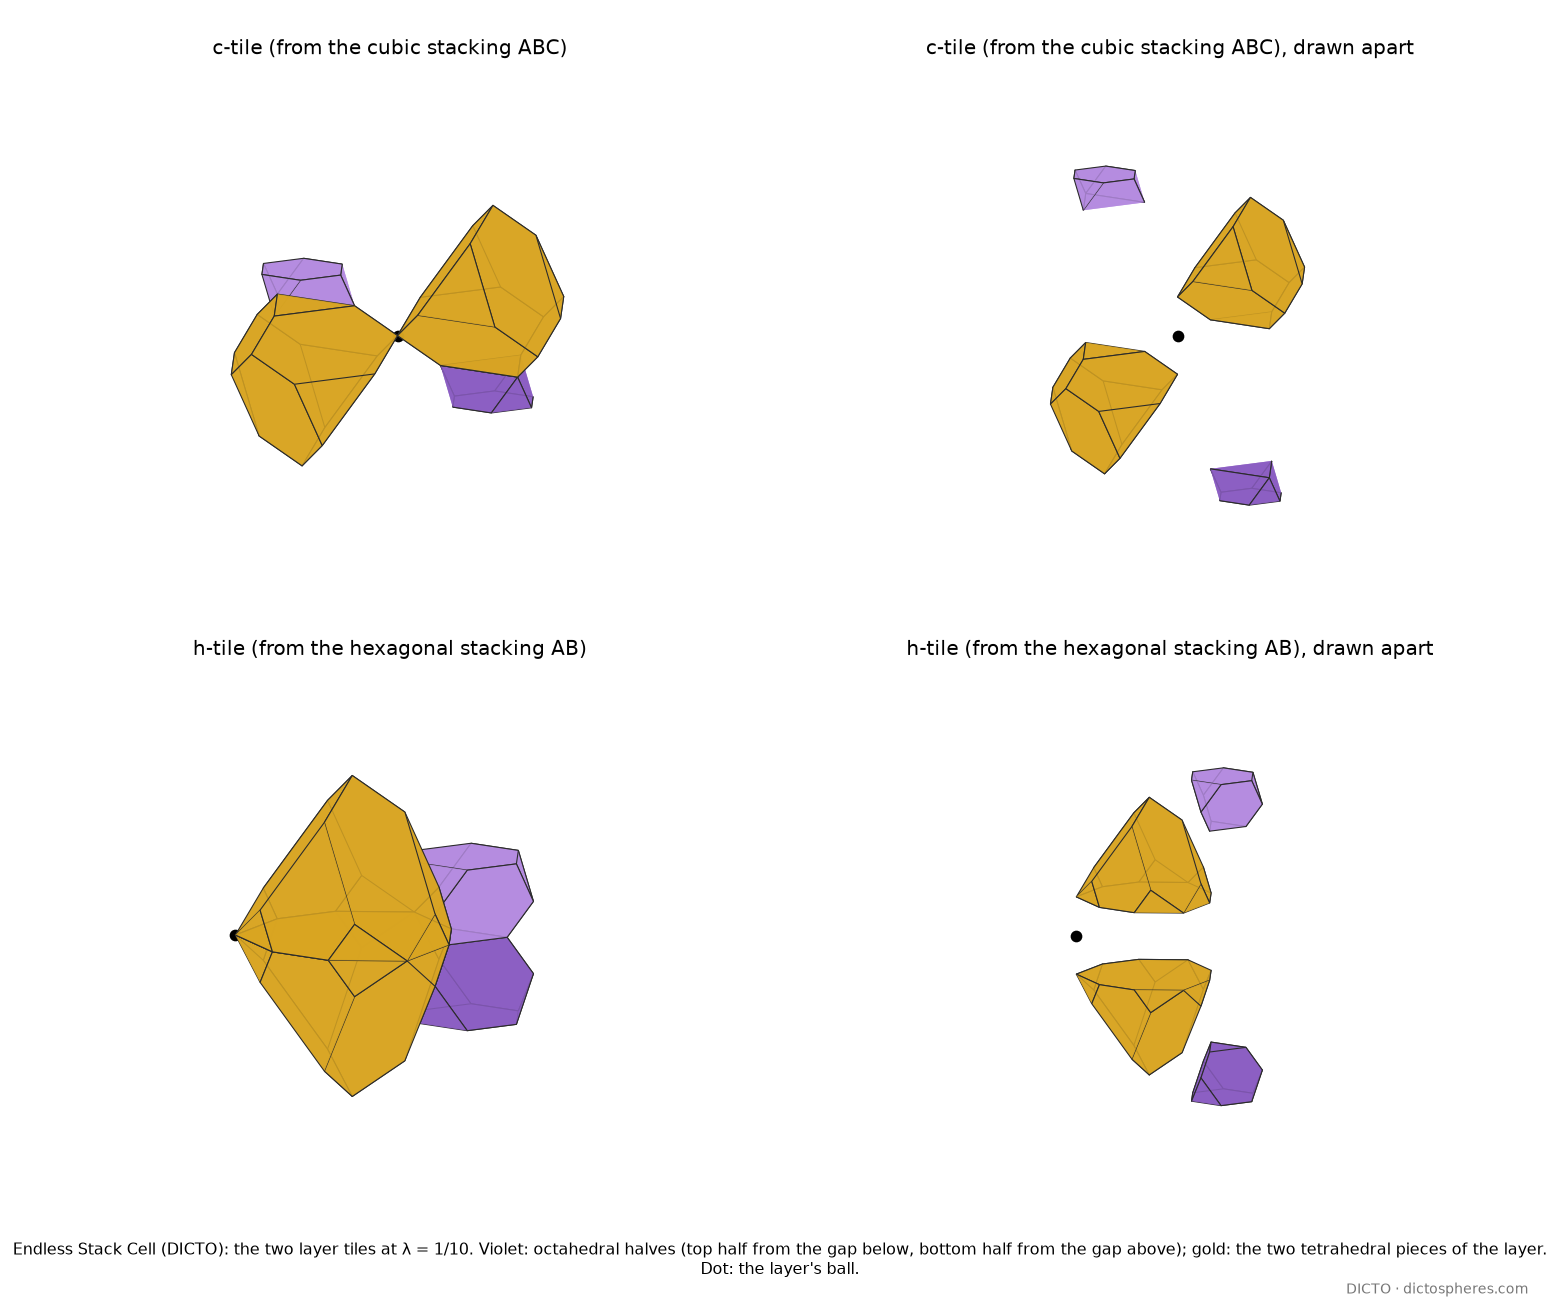
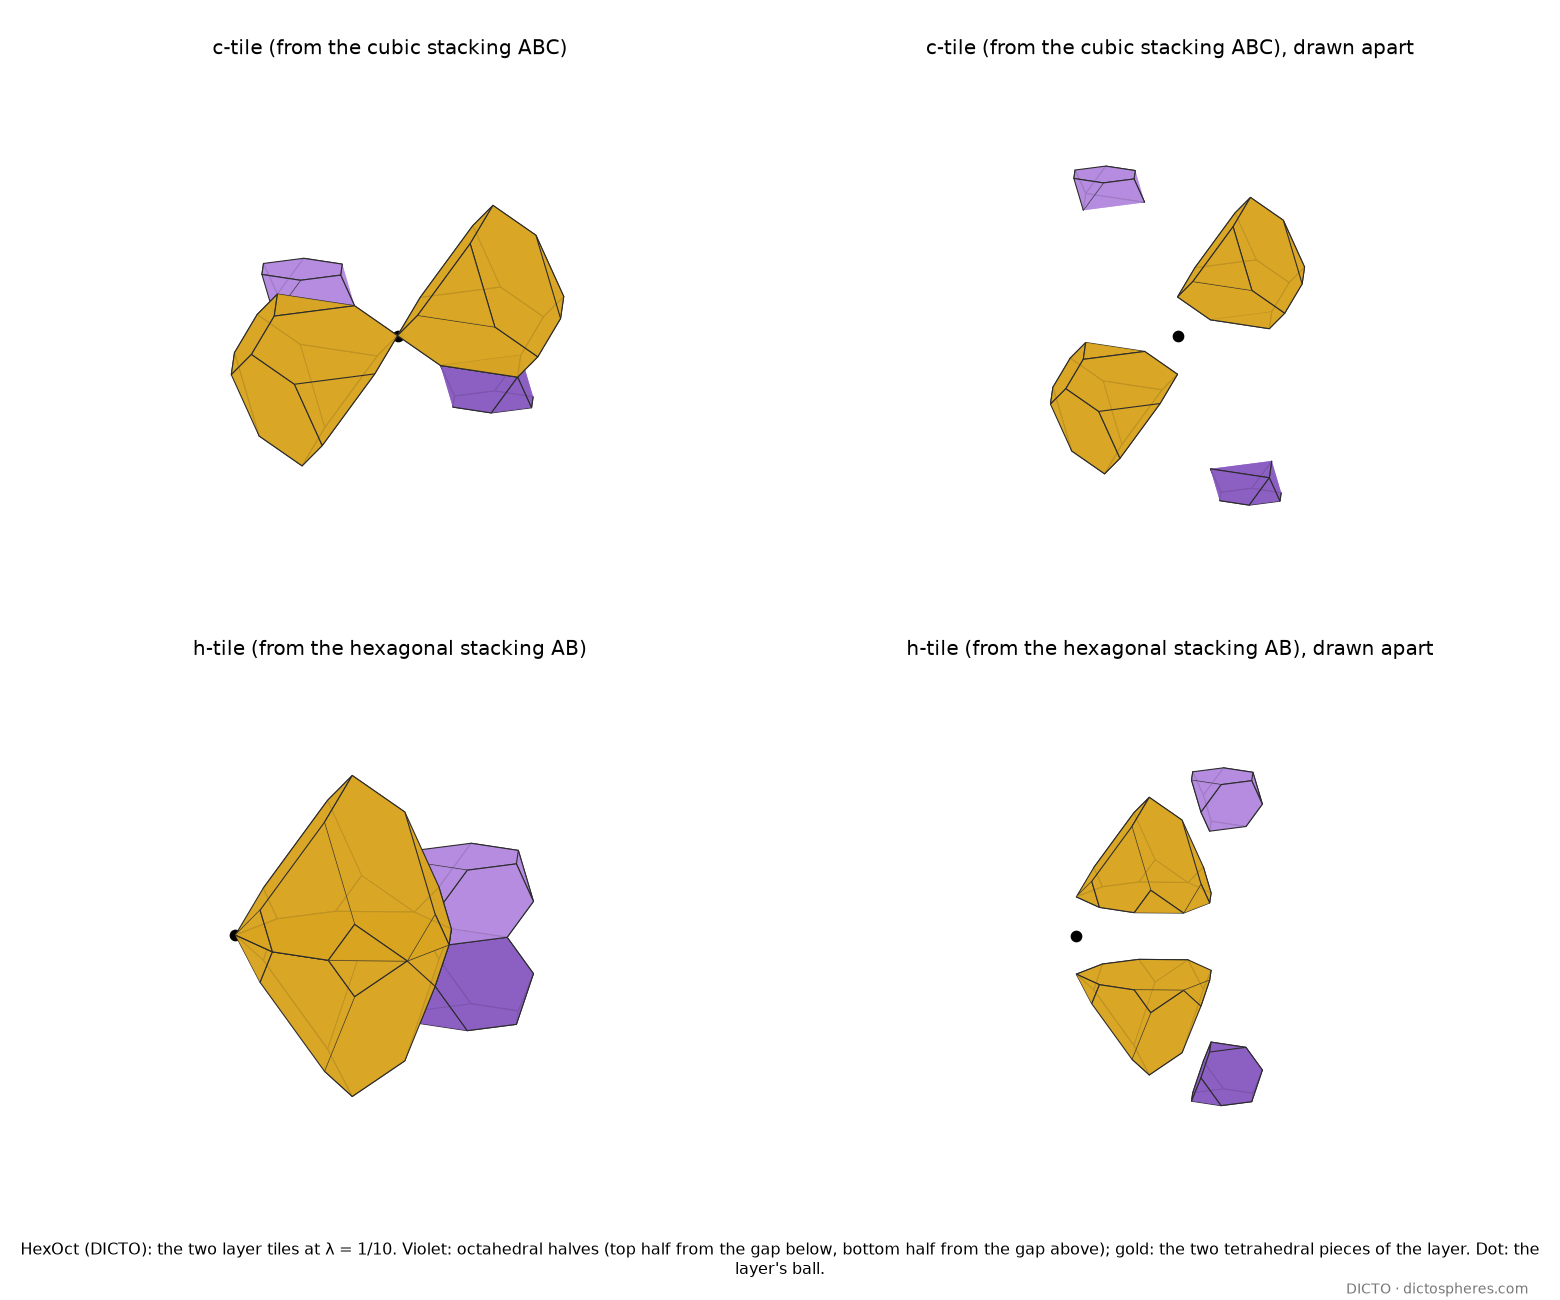
#75 figures relabelled HexOct (DICTO's name; was Endless Stack Cell)

Changed region(s): [[0.0, 0.9538, 0.9846, 0.9846]]

diff --git a/studies/2026-10-29-endless-stack-cell/scripts/render_tiles.py b/studies/2026-10-29-endless-stack-cell/scripts/render_tiles.py
@@ -1,4 +1,4 @@
-# Picture of the two layer tiles (Endless Stack Cell, DICTO's idea 2026-10-29): the c-tile (from ABC) and the h-tile (from AB)
+# Picture of the two layer tiles (HexOct, DICTO's name 2026-10-29; was the placeholder Endless Stack Cell): the c-tile (from ABC) and the h-tile (from AB)
 # at one weight; left whole, right drawn apart along z. Octahedral halves violet, tetrahedral pieces gold; the layer's ball as a dot.
 import sys, numpy as np
 from fractions import Fraction as Fr
@@ -38,10 +38,10 @@ if __name__ == '__main__':
             ax.set_xlim(c[0] - r, c[0] + r); ax.set_ylim(c[1] - r, c[1] + r); ax.set_zlim(c[2] - r, c[2] + r)
             ax.set_box_aspect((1, 1, 1)); ax.view_init(elev=14, azim=-58); ax.set_axis_off()
             ax.set_title(name + (', drawn apart' if gap else ''), fontsize=11)
-    fig.text(0.5, 0.02, f'Endless Stack Cell (DICTO): the two layer tiles at λ = {lam}. Violet: octahedral halves (top half from the gap below, '
+    fig.text(0.5, 0.02, f'HexOct (DICTO): the two layer tiles at λ = {lam}. Violet: octahedral halves (top half from the gap below, '
              'bottom half from the gap above); gold: the two tetrahedral pieces of the layer. Dot: the layer\'s ball.', ha='center', fontsize=9, wrap=True)
     fig.text(0.98, 0.005, 'DICTO · dictospheres.com', ha='right', fontsize=8, color='#777')
     plt.subplots_adjust(left=0, right=1, top=0.95, bottom=0.06, wspace=0, hspace=0.08)
-    plt.savefig(f'tiles_{str(lam).replace("/", "_").replace("-", "m")}.png', dpi=130)
+    plt.savefig(f'../tiles_{str(lam).replace("/", "_").replace("-", "m")}.png', dpi=130)
     print('saved')
 

diff --git a/studies/2026-10-29-endless-stack-cell/scripts/render_stack.py b/studies/2026-10-29-endless-stack-cell/scripts/render_stack.py
@@ -1,4 +1,4 @@
-# Stacked layer tiles (Endless Stack Cell, DICTO 2026-10-29): five consecutive layers of a mixed stacking, each layer a 2x2 patch of
+# Stacked layer tiles (HexOct, DICTO's name 2026-10-29; was Endless Stack Cell): five consecutive layers of a mixed stacking, each layer a 2x2 patch of
 # its tile, coloured by type (c gold, h blue); left closed, right with the layers drawn apart so the interlocking spikes show.
 import sys, numpy as np
 from fractions import Fraction as Fr
@@ -25,7 +25,7 @@ for col, gap in enumerate((0.0, 0.55)):
     ax.set_xlim(c[0] - r, c[0] + r); ax.set_ylim(c[1] - r, c[1] + r); ax.set_zlim(c[2] - r, c[2] + r)
     ax.set_box_aspect((1, 1, 1)); ax.view_init(elev=8, azim=-60); ax.set_axis_off()
     ax.set_title('closed' if not gap else 'layers drawn apart', fontsize=11)
-fig.suptitle('Endless Stack Cell (DICTO): five layers of ' + word + ', types ' + ' '.join(T[L] for L in Ls) + ' (bottom to top)', fontsize=12)
+fig.suptitle('HexOct (DICTO): five layers of ' + word + ', types ' + ' '.join(T[L] for L in Ls) + ' (bottom to top)', fontsize=12)
 fig.text(0.5, 0.03, f'λ = {lam}. Each layer is a 2×2 patch of its tile: gold = c-tile, blue = h-tile (darker: tetrahedral pieces, lighter: octahedral halves). '
          'Any tile sits on any tile; the tetrahedral spikes key each layer into the next.', ha='center', fontsize=9, wrap=True)
 fig.text(0.98, 0.01, 'DICTO · dictospheres.com', ha='right', fontsize=8, color='#777')
